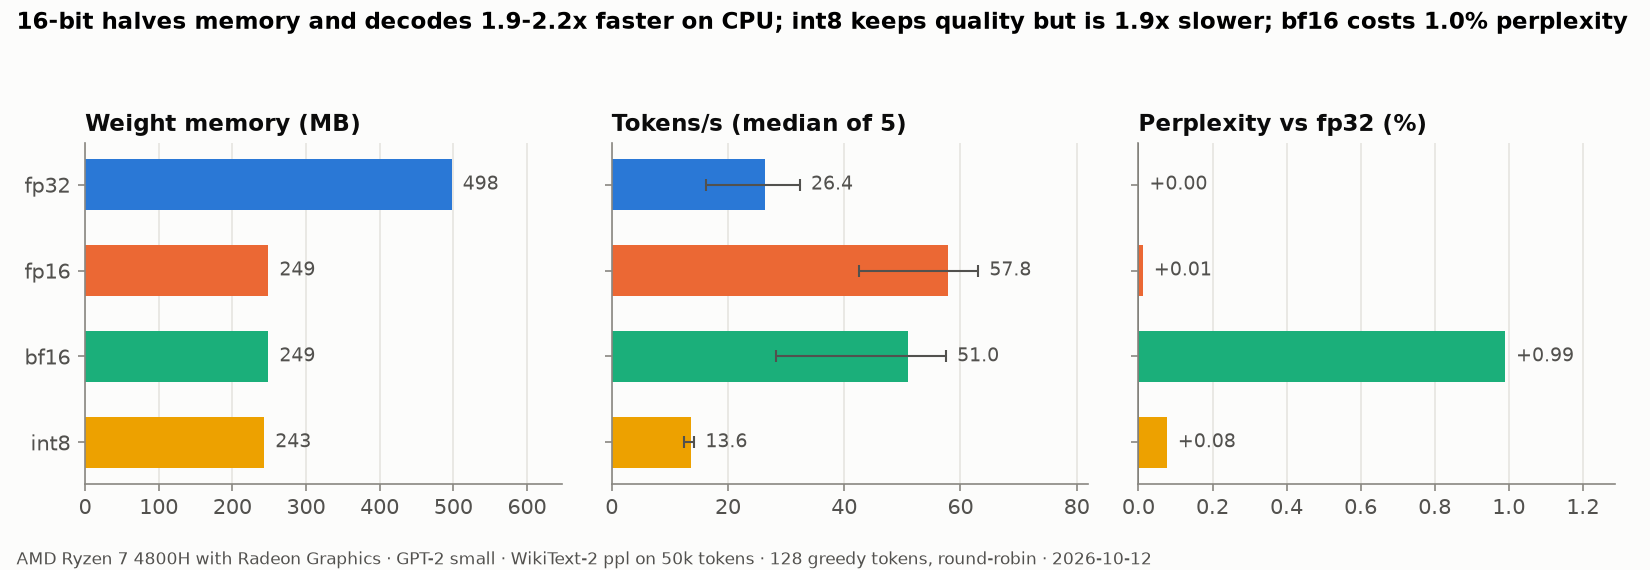
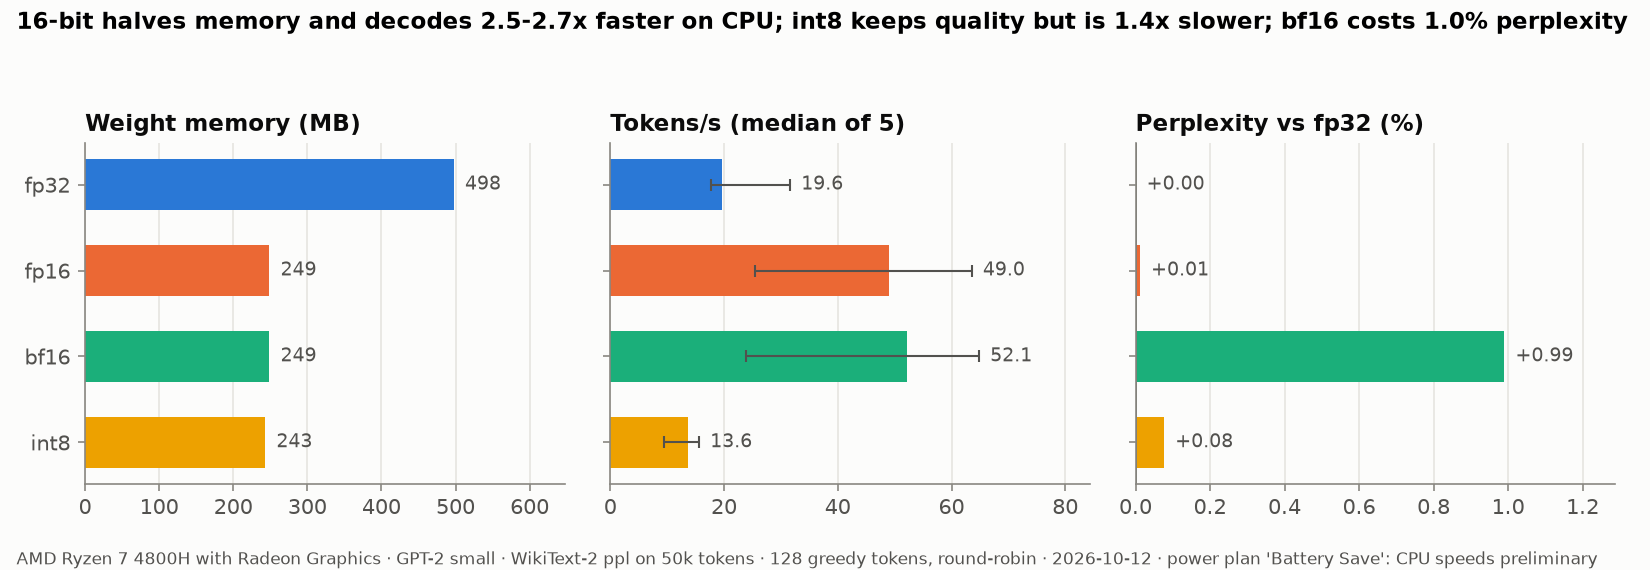
week4: perplexity + quant graph; round-robin speed; record power plan

diff --git a/tinyserve/bench/quant_graph.py b/tinyserve/bench/quant_graph.py
@@ -13,7 +13,7 @@ import matplotlib.pyplot as plt
 import torch
 
 from tinyserve.bench.perplexity import load_wikitext2_test, perplexity
-from tinyserve.bench.plots import INK_2, SERIES, footer, style
+from tinyserve.bench.plots import INK_2, SERIES, footer, power_plan, style
 from tinyserve.engine.generate import generate
 from tinyserve.engine.sampler import SamplingParams
 from tinyserve.model.gpt2 import GPT2
@@ -79,7 +79,13 @@ def measure(reuse_ppl: dict[str, float] | None = None) -> dict:
             f"{name:5s} {rows[-1]['mb']:6.0f} MB  {rows[-1]['tok_s']:5.1f} tok/s "
             f"[{min(r):.1f}-{max(r):.1f}]  ppl {ppl:.3f}"
         )
-    return {"ppl_tokens": len(text_ids), "gen_tokens": GEN_TOKENS, "runs": RUNS, "rows": rows}
+    return {
+        "ppl_tokens": len(text_ids),
+        "gen_tokens": GEN_TOKENS,
+        "runs": RUNS,
+        "power_plan": power_plan(),
+        "rows": rows,
+    }
 
 
 def plot(data: dict, out: Path) -> None:
@@ -137,17 +143,15 @@ def plot(data: dict, out: Path) -> None:
         fontsize=11,
         fontweight="bold",
     )
-    fig.text(
-        0.01,
-        0.01,
-        footer(
-            "GPT-2 small",
-            f"WikiText-2 ppl on {data['ppl_tokens'] // 1000}k tokens",
-            f"{data['gen_tokens']} greedy tokens, round-robin",
-        ),
-        fontsize=8,
-        color=INK_2,
+    note = footer(
+        "GPT-2 small",
+        f"WikiText-2 ppl on {data['ppl_tokens'] // 1000}k tokens",
+        f"{data['gen_tokens']} greedy tokens, round-robin",
     )
+    plan = data.get("power_plan", "unknown")
+    if plan not in ("High performance", "Ultimate Performance", "n/a"):
+        note += f" · power plan '{plan}': CPU speeds preliminary"
+    fig.text(0.01, 0.01, note, fontsize=8, color=INK_2)
     fig.tight_layout(rect=(0, 0.05, 1, 0.92))
     out.parent.mkdir(parents=True, exist_ok=True)
     fig.savefig(out, dpi=150)

diff --git a/tinyserve/bench/plots.py b/tinyserve/bench/plots.py
@@ -59,5 +59,20 @@ def hardware() -> str:
     return cpu
 
 
+def power_plan() -> str:
+    """Active Windows power plan: CPU speed results depend on it (see LOG.md)."""
+    if platform.system() != "Windows":
+        return "n/a"
+    try:
+        import subprocess
+
+        out = subprocess.run(
+            ["powercfg", "/getactivescheme"], capture_output=True, text=True, timeout=10
+        ).stdout
+        return out.split("(")[-1].rstrip(")\n ") if "(" in out else out.strip()
+    except Exception:
+        return "unknown"
+
+
 def footer(model: str, dtype: str, runs: str) -> str:
     return f"{hardware()} · {model} · {dtype} · {runs} · {date.today().isoformat()}"

diff --git a/docs/LOG.md b/docs/LOG.md
@@ -75,3 +75,4 @@ One entry per problem: date, symptom, hypotheses, what fixed it. Week 5's debugg
 - **Hypotheses:** (1) variants measured one after another, so clock drift hits them unequally -> switched to round-robin; medians became plausible but spread stayed. (2) thread oversubscription -> no: torch already uses 8 threads = physical cores; 4 threads no better. (3) power management -> **yes**: active scheme is "Battery Save" while on AC. Same settings, back-to-back: 17.3 then 26.5 tok/s median.
 - **Fix:** switch Windows power mode to Best performance before any speed benchmark, and record the power plan in results. CPU speed numbers in quant.json are PRELIMINARY until re-run. Final speed numbers come from Colab anyway (4.6).
 - **Lesson:** this is why the spec demands warmup + medians over several runs + hardware in every footer. A single run would have published bf16 > fp16, which the round-robin medians don't support.
+- **Follow-up (same day):** user set Power mode to Best performance, but the active *plan* is still HP's "Battery Save" and the registry overlay stayed on best power efficiency (Windows 11 applies the Power mode slider only under Balanced). Single-variant spread fell to 10% (median 17.8 tok/s fp32), but the round-robin re-run still spread widely (fp16 25.5–63.6). Medians: fp32 19.6, fp16 49.0, bf16 52.1, int8 13.6 tok/s. **Conclusion kept deliberately weak:** fp16 ≈ bf16 ≈ 2.5x fp32 on this CPU (cannot rank them); int8 clearly slowest. Power plan now saved in quant.json and printed in the graph footer with a "preliminary" note. Final speed numbers: Colab GPU (4.6).
